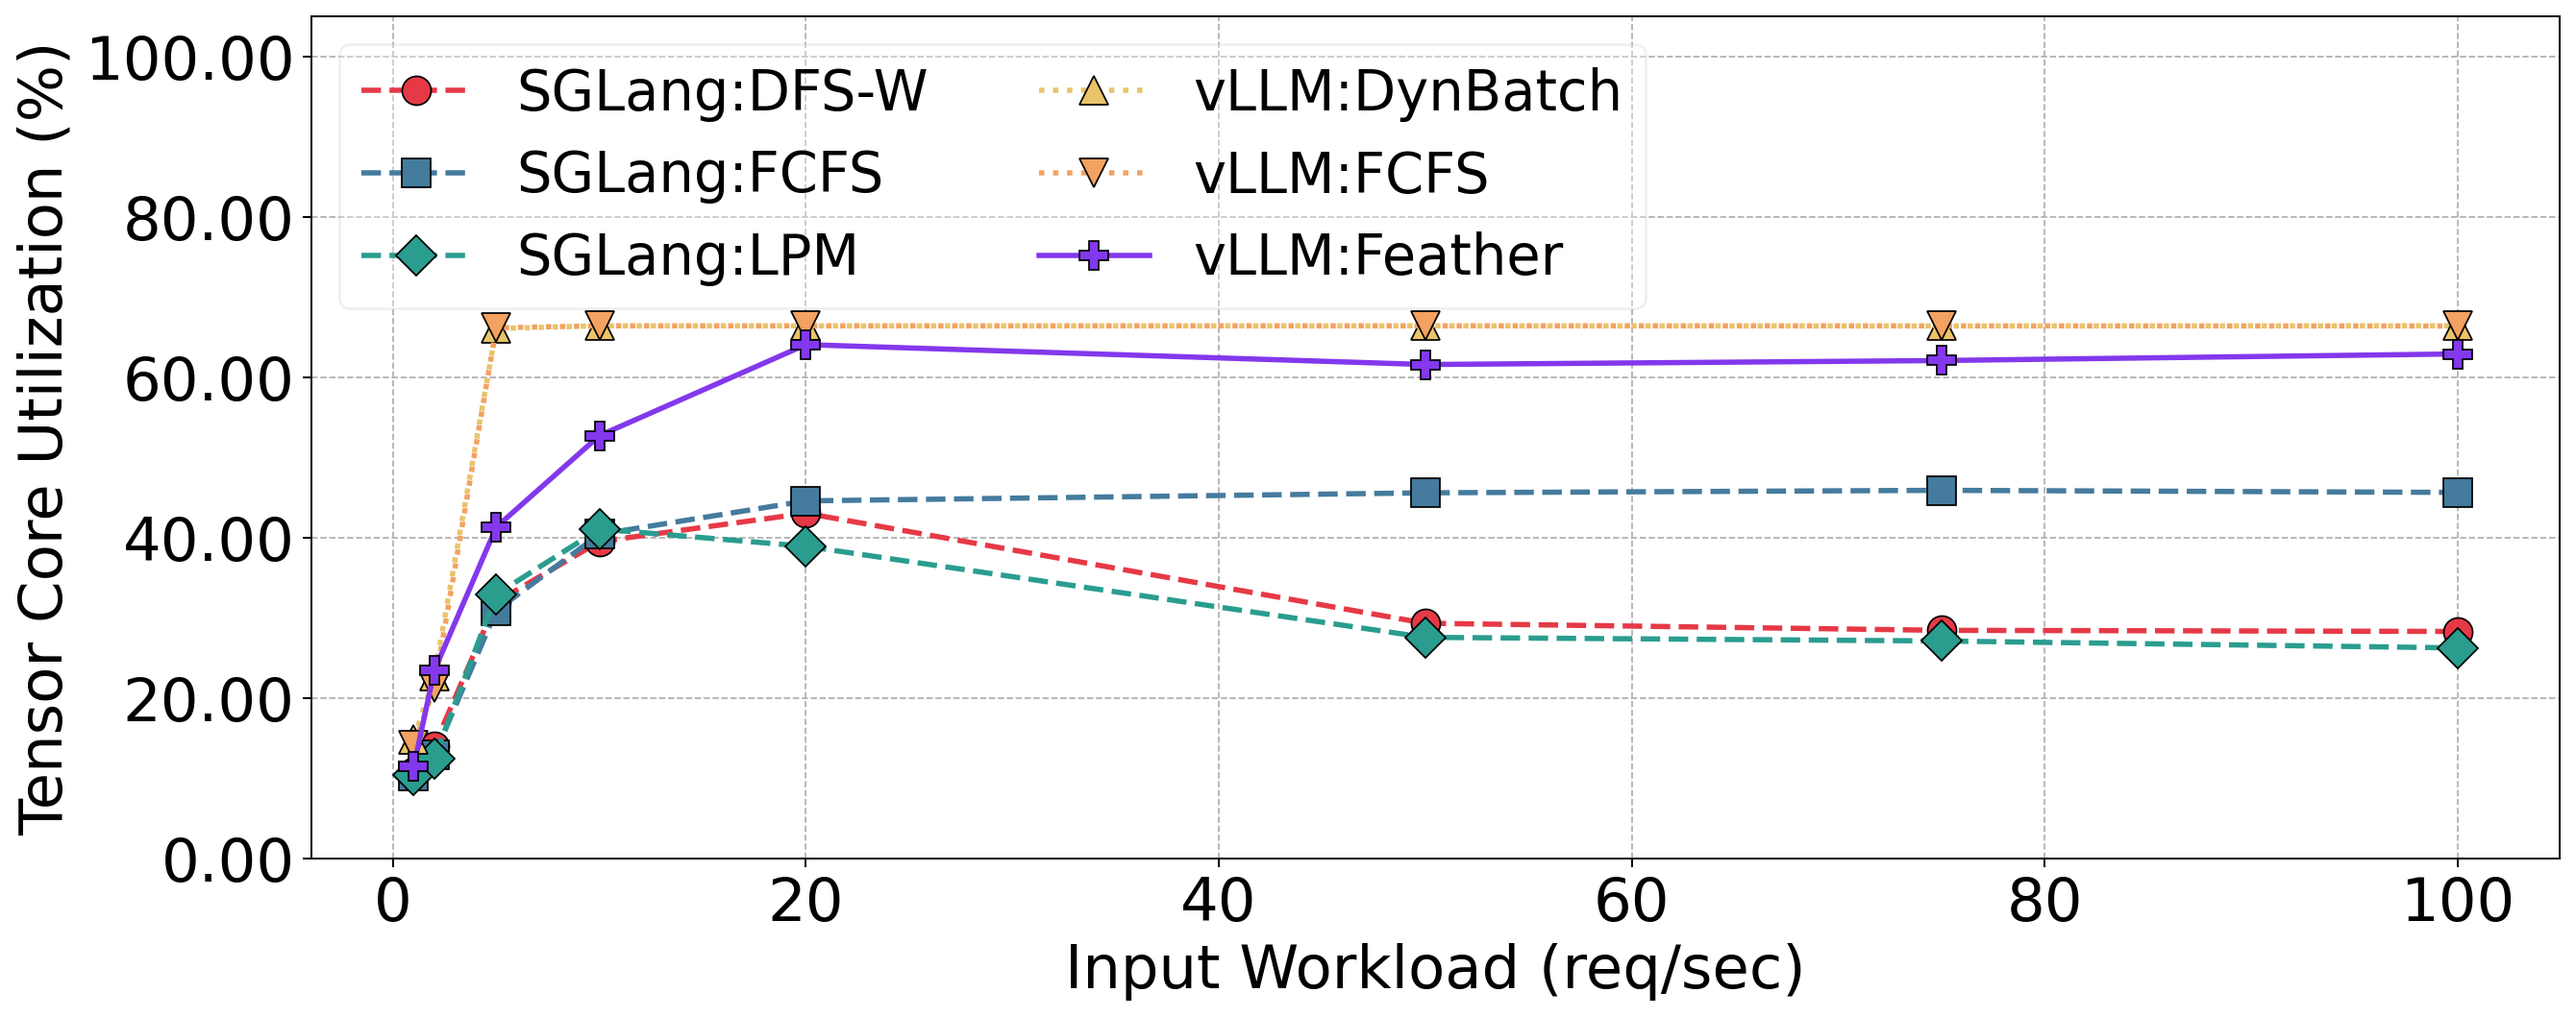
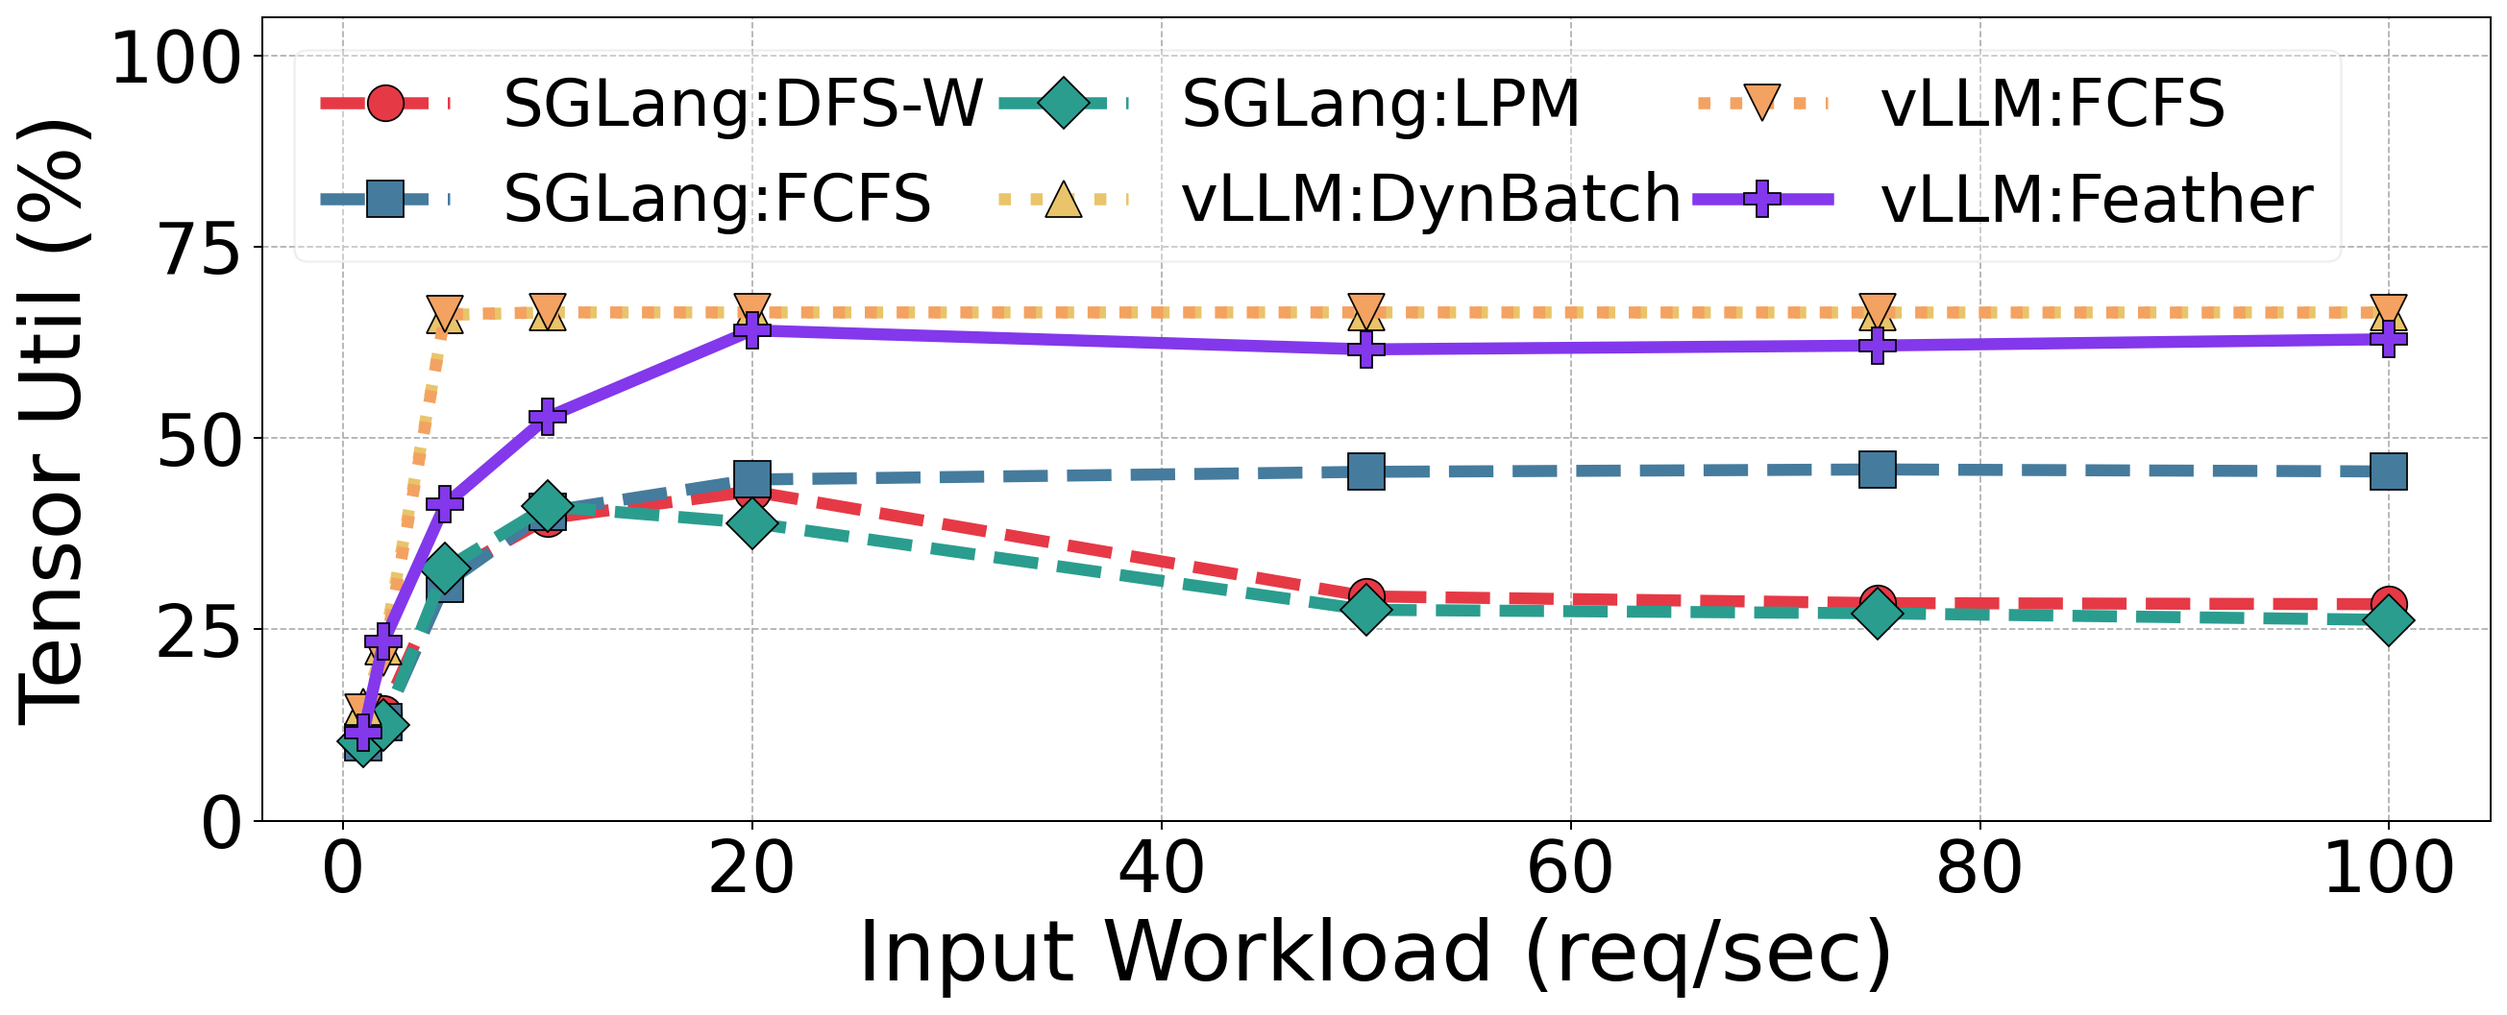
tenso

diff --git a/code/vllm/tenso_policies_logs/plot.py b/code/vllm/tenso_policies_logs/plot.py
@@ -2,10 +2,12 @@
 """
 Tensor Core Utilization (%) vs Request Rate (req/s)
 OLD-style plotting + engine-aware labels (vLLM / SGLang)
++ JSON caching: skip re-parsing log files if cache entry exists
 """
 
 import os
 import re
+import json
 import numpy as np
 import matplotlib
 matplotlib.use("Agg")
@@ -16,6 +18,7 @@ from collections import defaultdict
 # ── Config ────────────────────────────────────────────────────────────────
 LOG_DIR = "."
 OUT_DIR = "../../../results/tenso_policy_plots/"
+CACHE_FILE = "dcgmi_cache.json"
 DPI = 180
 os.makedirs(OUT_DIR, exist_ok=True)
 
@@ -29,7 +32,7 @@ PALETTE = [
 MARKERS = ["o", "s", "D", "^", "v", "P", "X", "*", "<", ">"]
 LINESTYLES = ["--", "--", "--", ":", ":", "-", "-"]
 
-# ── Rename policies (OLD logic) ───────────────────────────────────────────
+# ── Rename policies ───────────────────────────────────────────────────────
 def rename_policy(policy: str) -> str:
     if policy == "fcfs":
         return "FCFS"
@@ -45,16 +48,14 @@ def rename_policy(policy: str) -> str:
 
 
 # ═════════════════════════════════════════════════════════════════════════
-# 1. Filename parser (ENGINE + POLICY)
+# 1. Filename parser
 # ═════════════════════════════════════════════════════════════════════════
 
 def extract_info(filename: str):
     rps_m = re.search(r"rps-([\d.]+)", filename)
-
     policy_m = re.search(
         r"policy-([^_\.]+(?:_[^_\.]+)*?)(?=_maxnew|\.log|$)", filename
     )
-
     engine = None
     if "vllm" in filename:
         engine = "vLLM"
@@ -63,7 +64,6 @@ def extract_info(filename: str):
 
     rps = float(rps_m.group(1)) if rps_m else None
     policy = policy_m.group(1) if policy_m else None
-
     return engine, policy, rps
 
 
@@ -78,21 +78,16 @@ def read_dcgmi(filepath: str) -> dict:
     with open(filepath) as fh:
         for raw in fh:
             line = raw.strip()
-
             if not line or line.startswith("ID"):
                 continue
-
             if line.startswith("#Entity"):
                 headers = line.split()
                 col_order = [h.lower() for h in headers[1:]]
                 continue
-
             parts = line.split()
             values = parts[2:]
-
             if col_order is None or len(values) < len(col_order):
                 continue
-
             for key, v in zip(col_order, values):
                 if key in cols:
                     try:
@@ -104,57 +99,83 @@ def read_dcgmi(filepath: str) -> dict:
 
 
 # ═════════════════════════════════════════════════════════════════════════
-# 3. Data collection
+# 3. Cache helpers
 # ═════════════════════════════════════════════════════════════════════════
 
-def collect_data(log_dir: str) -> dict:
+def load_cache(cache_path: str) -> dict:
+    """Load existing cache from JSON, or return empty dict."""
+    if os.path.exists(cache_path):
+        with open(cache_path) as f:
+            try:
+                return json.load(f)
+            except json.JSONDecodeError:
+                print(f"[WARN] Cache file corrupt, starting fresh: {cache_path}")
+    return {}
+
+
+def save_cache(cache: dict, cache_path: str):
+    """Persist cache to JSON."""
+    with open(cache_path, "w") as f:
+        json.dump(cache, f, indent=2)
+
+
+# ═════════════════════════════════════════════════════════════════════════
+# 4. Data collection (with caching)
+# ═════════════════════════════════════════════════════════════════════════
+
+def collect_data(log_dir: str, cache_path: str) -> dict:
+    cache = load_cache(cache_path)
+    cache_dirty = False                    # track if we need to re-save
     raw = defaultdict(dict)
 
     for fname in sorted(os.listdir(log_dir)):
-
         if not (fname.startswith("dcgmi_") and fname.endswith(".log")):
             continue
 
         engine, policy, rps = extract_info(fname)
-
         if engine is None or policy is None or rps is None:
             print(f"[SKIP] {fname}")
             continue
 
-        fpath = os.path.join(log_dir, fname)
-        gpu_stats = read_dcgmi(fpath)
-        tenso_arr = gpu_stats.get("tenso", np.array([]))
+        # ── Cache lookup ──────────────────────────────────────────────
+        if fname in cache:
+            tenso_mean = cache[fname]
+            print(f"[CACHE] {fname}  →  tenso={tenso_mean:.2f}%")
+        else:
+            fpath = os.path.join(log_dir, fname)
+            gpu_stats = read_dcgmi(fpath)
+            tenso_arr = gpu_stats.get("tenso", np.array([]))
 
-        if tenso_arr.size == 0:
-            print(f"[WARN] no tenso data: {fname}")
-            continue
+            if tenso_arr.size == 0:
+                print(f"[WARN] no tenso data: {fname}")
+                continue
 
-        tenso_mean = float(np.mean(tenso_arr)) * 100
+            tenso_mean = float(np.mean(tenso_arr)) * 100
+            cache[fname] = tenso_mean      # store in cache
+            cache_dirty = True
+            print(f"[READ] {fname}  →  tenso={tenso_mean:.2f}%")
 
         policy_name = rename_policy(policy)
         label = f"{engine}:{policy_name}"
-
-        print(f"[OK] {label:<20} rps={rps:>6}  tenso={tenso_mean:.2f}%")
-
         raw[label][rps] = tenso_mean
+
+    if cache_dirty:
+        save_cache(cache, cache_path)
+        print(f"[CACHE] Saved → {cache_path}")
 
     return raw
 
 
 # ═════════════════════════════════════════════════════════════════════════
-# 4. Plot (OLD STYLE, NO HOMOGENEITY LINE)
+# 5. Plot
 # ═════════════════════════════════════════════════════════════════════════
 
 def plot_tenso_vs_rps(data: dict, out_dir: str):
-
     fig, ax = plt.subplots(figsize=(15, 6))
-
     policies = sorted(data.keys())
 
     for i, label in enumerate(policies):
-
         rps_dict = data[label]
-
         xs = sorted(rps_dict.keys())
         ys = [rps_dict[x] for x in xs]
 
@@ -163,71 +184,51 @@ def plot_tenso_vs_rps(data: dict, out_dir: str):
         linestyle = LINESTYLES[i % len(LINESTYLES)]
 
         ax.plot(
-            xs,
-            ys,
+            xs, ys,
             marker=marker,
             linestyle=linestyle,
-            linewidth=2.2,
-            markersize=12,
+            linewidth=5,
+            markersize=15,
             markeredgecolor="black",
             markeredgewidth=0.7,
             color=color,
-            label=label
+            label=label,
         )
 
-    # ── Axes ───────────────────────────────────────────────────────────
-    ax.set_xlabel("Input Workload (req/sec)", fontsize=25)
-    ax.set_ylabel("Tensor Core Utilization (%)", fontsize=25)
-
-    ax.tick_params(axis="both", labelsize=25)
-    ax.yaxis.set_major_formatter(ticker.FormatStrFormatter('%.2f'))
+    ax.set_xlabel("Input Workload (req/sec)", fontsize=35)
+    ax.set_ylabel("Tensor Util (%)", fontsize=35)
+    ax.tick_params(axis="both", labelsize=30)
+    ax.yaxis.set_major_formatter(ticker.FormatStrFormatter('%.0f'))
     ax.set_ylim(0, 105)
 
-    # ── Legend (sorted) ────────────────────────────────────────────────
     handles, labels = ax.get_legend_handles_labels()
     sorted_pairs = sorted(zip(labels, handles), key=lambda x: x[0])
-
     if sorted_pairs:
         sorted_labels, sorted_handles = zip(*sorted_pairs)
     else:
         sorted_labels, sorted_handles = [], []
 
     ax.legend(
-        sorted_handles,
-        sorted_labels,
-        fontsize=23,
-        framealpha=0.3,
-        ncol=2,
-        loc="upper left",
-        # bbox_to_anchor=(0.50, 0.99)
+        sorted_handles, sorted_labels,
+        fontsize=27, framealpha=0.3, ncol=3,
+        loc="upper left", columnspacing=0.2,
     )
 
-    # ── Grid ───────────────────────────────────────────────────────────
     ax.grid(True, linewidth=0.7, linestyle="--")
-
     plt.tight_layout()
 
     outpath = os.path.join(out_dir, "plot_tenso_vs_rps_policies.png")
-
-    fig.savefig(
-        outpath,
-        dpi=DPI,
-        bbox_inches="tight",
-        facecolor=fig.get_facecolor()
-    )
-
+    fig.savefig(outpath, dpi=DPI, bbox_inches="tight", facecolor=fig.get_facecolor())
     plt.close(fig)
-
     print(f"\nSaved → {outpath}")
 
 
 # ═════════════════════════════════════════════════════════════════════════
-# 5. Entry
+# 6. Entry
 # ═════════════════════════════════════════════════════════════════════════
 
 def main():
-
-    data = collect_data(LOG_DIR)
+    data = collect_data(LOG_DIR, CACHE_FILE)
 
     if not data:
         print("No data found.")
@@ -239,7 +240,6 @@ def main():
             print(f"{label:<20} rps={rps:>6}  {data[label][rps]:.2f}%")
 
     plot_tenso_vs_rps(data, OUT_DIR)
-
     print("\n✅ Done.")
 
 
